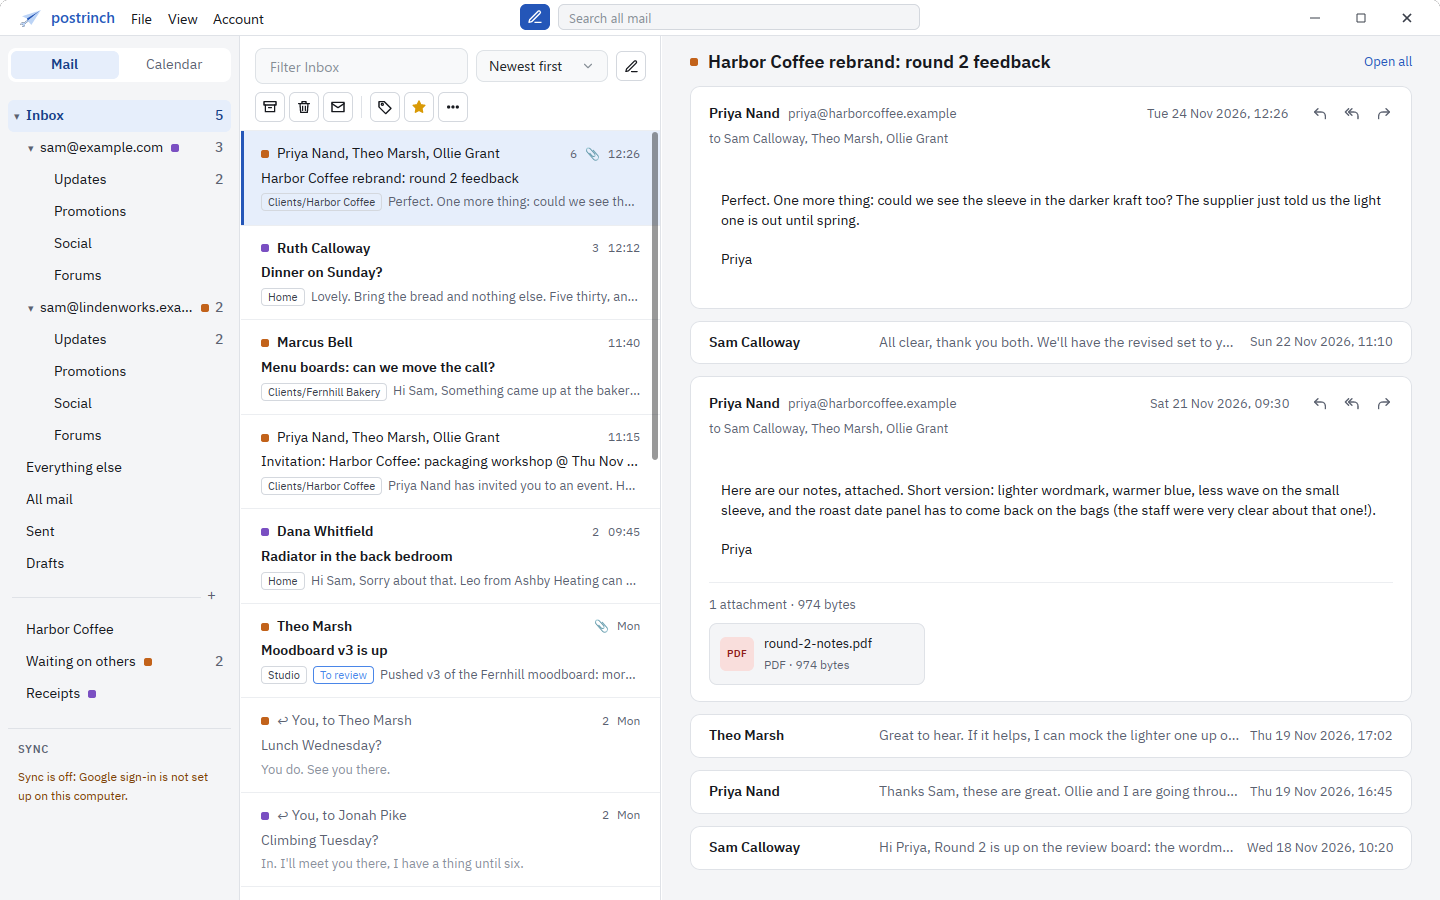
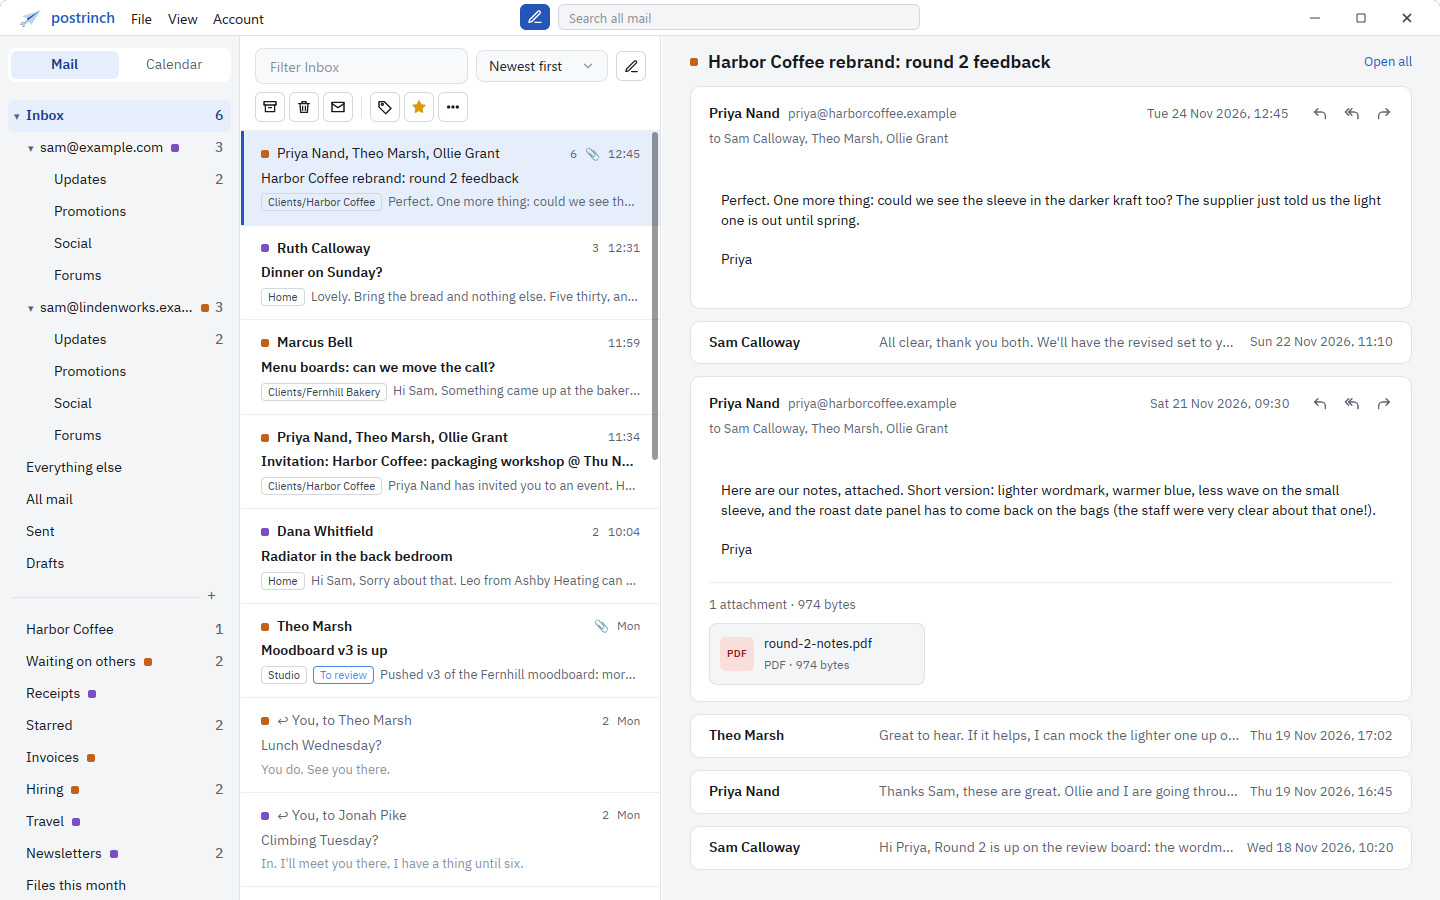
Demo store: review fixes, a views shot, no sync line in the shots
- demo-window.sh takes only a scratch folder that is new, empty or marked
  as its own by an earlier run, so it never empties a folder holding
  anything else; cache and state folders are redirected too.
- Replies to a "Re:" subject are not "Re: Re:".
- Non-ASCII headers are split into encoded words of at most 75
  characters; text parts are CRLF before base64; iCalendar lines are
  folded at 75 octets. Each with a test.
- Six more saved views, as someone filing by views keeps; with them the
  sidebar is full and its Sync section is below the window's edge.
  A test checks every one of the person's views finds demo mail.
- Shots: views.png added; mail.png and search.png retaken (no sync line);
  invitation.png and mail-dark.png dropped, as the website doesn't use them.

Changed region(s): [[0.1875, 0.4667, 0.4375, 0.5289], [0.0, 0.8089, 0.125, 0.9956]]

diff --git a/crates/postrinch-demo/src/mail.rs b/crates/postrinch-demo/src/mail.rs
@@ -92,11 +92,14 @@ struct Part {
 }
 
 impl Part {
+    /// A text part, its line breaks made CRLF first as MIME's canonical
+    /// form for text is (RFC 2045 §6.8).
     fn text(subtype: &str, text: &str) -> Self {
+        let canonical = text.replace("\r\n", "\n").replace('\n', "\r\n");
         Self::leaf(
             &format!("text/{subtype}; charset=\"utf-8\""),
             None,
-            text.as_bytes(),
+            canonical.as_bytes(),
         )
     }
 
@@ -163,14 +166,31 @@ fn mailboxes(people: &[Person]) -> String {
     people.iter().map(mailbox).collect::<Vec<_>>().join(", ")
 }
 
-/// `text` as it may stand in a header: as it is when it is ASCII, else an
-/// RFC 2047 encoded word.
+/// The most bytes of text one encoded word carries: 45 bytes are 60 of
+/// base64, and with `=?utf-8?B?` and `?=` the word is 72 characters,
+/// inside RFC 2047's 75.
+const WORD_BYTES: usize = 45;
+
+/// `text` as it may stand in a header: as it is when it is ASCII, else
+/// RFC 2047 encoded words, each whole characters, on folded lines.
 fn encoded(text: &str) -> String {
     if text.is_ascii() {
-        text.to_owned()
-    } else {
-        format!("=?utf-8?B?{}?=", STANDARD.encode(text))
+        return text.to_owned();
     }
+    let mut words = Vec::new();
+    let mut chunk = String::new();
+    for c in text.chars() {
+        if chunk.len() + c.len_utf8() > WORD_BYTES {
+            words.push(std::mem::take(&mut chunk));
+        }
+        chunk.push(c);
+    }
+    words.push(chunk);
+    words
+        .iter()
+        .map(|w| format!("=?utf-8?B?{}?=", STANDARD.encode(w)))
+        .collect::<Vec<_>>()
+        .join("\r\n ")
 }
 
 /// Base64 in lines of 76, each ending in CRLF.
@@ -237,6 +257,23 @@ mod tests {
         assert_eq!(message.attachments.len(), 1);
         assert_eq!(message.attachments[0].filename.as_deref(), Some("menu.csv"));
         assert_eq!(message.attachments[0].size, 24);
+    }
+
+    #[test]
+    fn a_long_subject_is_several_short_words() {
+        let subject = "Inês Duarte — notas da revisão do logótipo e das embalagens, ronda 2";
+        let header = encoded(subject);
+        for line in header.split("\r\n") {
+            assert!(line.trim_start().len() <= 75, "{line}");
+        }
+        let decoded: String = header
+            .split("\r\n ")
+            .map(|w| {
+                let b64 = w.trim_start_matches("=?utf-8?B?").trim_end_matches("?=");
+                String::from_utf8(STANDARD.decode(b64).unwrap()).unwrap()
+            })
+            .collect();
+        assert_eq!(decoded, subject);
     }
 
     #[test]

diff --git a/crates/postrinch-demo/src/calendar.rs b/crates/postrinch-demo/src/calendar.rs
@@ -70,7 +70,25 @@ pub fn workshop_invitation(clock: &Clock) -> DemoResult<String> {
         "END:VEVENT".to_owned(),
         "END:VCALENDAR".to_owned(),
     ];
-    Ok(lines.join("\r\n") + "\r\n")
+    Ok(lines.iter().map(|l| fold(l)).collect())
+}
+
+/// One content line, folded as RFC 5545 §3.1 asks: no line over 75
+/// octets, each continuation starting with a space, never inside a
+/// character.
+fn fold(line: &str) -> String {
+    let mut out = String::with_capacity(line.len() + 8);
+    let mut width = 0;
+    for c in line.chars() {
+        if width + c.len_utf8() > 75 {
+            out.push_str("\r\n ");
+            width = 1;
+        }
+        out.push(c);
+        width += c.len_utf8();
+    }
+    out.push_str("\r\n");
+    out
 }
 
 fn calendar(
@@ -433,4 +451,24 @@ pub fn put(store: &Store, clock: &Clock) -> DemoResult<usize> {
         }
     }
     Ok(count)
+}
+
+#[cfg(test)]
+mod tests {
+    use super::fold;
+
+    #[test]
+    fn long_lines_fold_and_unfold_whole() {
+        let line = format!(
+            "ATTENDEE;CN=Inês Duarte;PARTSTAT=NEEDS-ACTION:mailto:{}",
+            "a".repeat(80)
+        );
+        let folded = fold(&line);
+        assert!(folded.ends_with("\r\n"));
+        for part in folded.trim_end_matches("\r\n").split("\r\n") {
+            assert!(part.len() <= 75, "{part}");
+        }
+        assert_eq!(folded.trim_end_matches("\r\n").replace("\r\n ", ""), line);
+        assert_eq!(fold("VERSION:2.0"), "VERSION:2.0\r\n");
+    }
 }

diff --git a/crates/postrinch-demo/src/views_rules.rs b/crates/postrinch-demo/src/views_rules.rs
@@ -10,7 +10,9 @@ use crate::accounts::{HARBOR, INVOICES, RECEIPTS};
 use crate::people::{LEDGERLY, PAPER_CRANE, PRIYA, SAM_HOME, SAM_WORK};
 
 /// Name, search, the account it is of (none for every account), count.
-const VIEWS: [(&str, &str, Option<&str>, ViewCount); 3] = [
+/// As many as a person who files by views keeps: enough that the sidebar
+/// is full, as it is in the website's screenshots.
+const VIEWS: [(&str, &str, Option<&str>, ViewCount); 9] = [
     (
         "Harbor Coffee",
         "label:clients/harbor-coffee",
@@ -27,6 +29,37 @@ const VIEWS: [(&str, &str, Option<&str>, ViewCount); 3] = [
         "Receipts",
         "label:receipts newer_than:30d",
         Some(SAM_HOME.address),
+        ViewCount::None,
+    ),
+    ("Starred", "is:starred", None, ViewCount::All),
+    (
+        "Invoices",
+        "label:invoices",
+        Some(SAM_WORK.address),
+        ViewCount::None,
+    ),
+    (
+        "Hiring",
+        "label:studio/hiring",
+        Some(SAM_WORK.address),
+        ViewCount::All,
+    ),
+    (
+        "Travel",
+        "label:travel",
+        Some(SAM_HOME.address),
+        ViewCount::None,
+    ),
+    (
+        "Newsletters",
+        "category:updates",
+        Some(SAM_HOME.address),
+        ViewCount::Unread,
+    ),
+    (
+        "Files this month",
+        "has:attachment newer_than:30d",
+        None,
         ViewCount::None,
     ),
 ];

diff --git a/crates/postrinch-demo/tests/seed.rs b/crates/postrinch-demo/tests/seed.rs
@@ -29,7 +29,7 @@ fn seeded() -> (tempfile::TempDir, Commands) {
         seeded.threads
     );
     assert!(seeded.messages > seeded.threads);
-    assert_eq!((seeded.views, seeded.rules), (3, 3));
+    assert_eq!((seeded.views, seeded.rules), (9, 3));
     (dir, Commands::new(Store::open(&root).unwrap()))
 }
 
@@ -90,6 +90,21 @@ fn views_and_search_find_the_demo_mail() {
     let harbor = subjects(&commands, &view(&commands, "Harbor Coffee"));
     assert!(harbor.contains(&"Kickoff notes".to_owned()));
     assert!(harbor.iter().all(|s| !s.contains("Fernhill")));
+    // Every view of the person's own shows some of the demo's mail.
+    let own: Vec<_> = commands
+        .views()
+        .unwrap()
+        .into_iter()
+        .filter(|e| e.original.is_none())
+        .collect();
+    assert_eq!(own.len(), 9);
+    for entry in own {
+        let name = &entry.view.name;
+        assert!(
+            !subjects(&commands, &entry.view).is_empty(),
+            "{name} is empty"
+        );
+    }
     let found = commands.search("from:priya has:attachment", 50).unwrap();
     let found: Vec<_> = found
         .threads

diff --git a/crates/postrinch-demo/src/threads.rs b/crates/postrinch-demo/src/threads.rs
@@ -204,9 +204,12 @@ fn put_thread(store: &Store, clock: &Clock, spec: &ThreadSpec, seq: usize) -> De
     Ok(dated.len())
 }
 
-/// A reply's subject: the thread's, after `Re: `.
+/// A reply's subject: the thread's, after `Re: ` unless it has one.
 fn reply_subject(subject: &str, n: usize) -> String {
-    if n == 0 {
+    let replied = subject
+        .get(..3)
+        .is_some_and(|start| start.eq_ignore_ascii_case("re:"));
+    if n == 0 || replied {
         subject.to_owned()
     } else {
         format!("Re: {subject}")
@@ -247,5 +250,6 @@ mod tests {
     fn replies_say_so() {
         assert_eq!(reply_subject("Lunch?", 0), "Lunch?");
         assert_eq!(reply_subject("Lunch?", 2), "Re: Lunch?");
+        assert_eq!(reply_subject("Re: Offsite", 1), "Re: Offsite");
     }
 }
